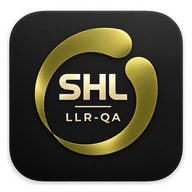
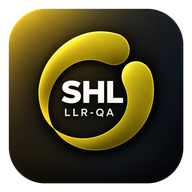
Add files via upload

diff --git a/index.html b/index.html
@@ -4,7 +4,7 @@
 <meta charset="UTF-8">
 <meta name="viewport" content="width=device-width, initial-scale=1.0, viewport-fit=cover">
 <title>SHL QA — Lesson Learned Repository</title>
-<!-- Cross-platform patch v1.0.36: automatic 3D floating treatment for any uploaded branding logo without recoloring -->
+<!-- Cross-platform patch v1.0.35: approved glossy SHL LLR-QA app icon refresh across all platforms -->
 <!-- v1.0.11: mobile/web login viewport + keyboard responsiveness fix -->
 <!-- v1.0.7: card view shows both uploaded photos side-by-side -->
 
@@ -82,70 +82,17 @@ header{
   cursor:pointer;overflow:hidden;flex-shrink:0;position:relative;
   border:none;
 }
-.logo-mark img{width:100%;height:100%;object-fit:contain;background:transparent;}
+.logo-mark img{width:100%;height:100%;object-fit:cover;background:transparent;}
 .logo-mark.has-logo,
 .welcome-logo-large.has-logo,
 .login-brand-logo.has-logo,
 .welcome-logo-preview.has-logo{
   background:transparent!important;
-  border-color:transparent!important;
-  overflow:visible!important;
-  isolation:isolate;
   box-shadow:none!important;
-}
-
-/* v1.0.36 — uploaded logo stays exactly its own color/background.
-   3D comes only from geometry + neutral shadows, never from a theme fill/tint. */
-.logo-mark.has-logo img,
-.welcome-logo-large.has-logo img,
-.login-brand-logo.has-logo img,
-.welcome-logo-preview.has-logo img{
-  display:block;
-  width:100%;
-  height:100%;
-  object-fit:contain;
-  background:transparent!important;
-  border-radius:18%;
-  transform:perspective(760px) translateY(-2px) rotateX(2.2deg) rotateY(-1.5deg) scale(.96);
-  transform-origin:center center;
-  box-shadow:
-    0 1px 0 rgba(255,255,255,.55) inset,
-    0 2px 3px rgba(10,15,20,.16),
-    0 8px 16px rgba(10,15,20,.18),
-    0 18px 34px rgba(10,15,20,.16);
-  filter:drop-shadow(0 4px 5px rgba(10,15,20,.10));
-  transition:transform .20s ease,box-shadow .20s ease,filter .20s ease;
-}
-.logo-mark.has-logo:hover img{
-  transform:perspective(760px) translateY(-3px) rotateX(1.3deg) rotateY(-1deg) scale(.98);
-  box-shadow:
-    0 1px 0 rgba(255,255,255,.58) inset,
-    0 3px 5px rgba(10,15,20,.16),
-    0 10px 19px rgba(10,15,20,.20),
-    0 21px 38px rgba(10,15,20,.18);
+  border-color:transparent!important;
 }
 .logo-mark.has-logo{border-radius:0;}
-.welcome-logo-large.has-logo,
-.login-brand-logo.has-logo,
-.welcome-logo-preview.has-logo{border-radius:0!important;}
-
-/* Larger public logos get slightly deeper floating depth. */
-.welcome-logo-large.has-logo img{
-  transform:perspective(900px) translateY(-4px) rotateX(2.4deg) rotateY(-1.6deg) scale(.95);
-  box-shadow:
-    0 1px 0 rgba(255,255,255,.60) inset,
-    0 4px 7px rgba(10,15,20,.14),
-    0 14px 28px rgba(10,15,20,.20),
-    0 26px 52px rgba(10,15,20,.16);
-}
-.login-brand-logo.has-logo img{
-  transform:perspective(820px) translateY(-3px) rotateX(2.2deg) rotateY(-1.4deg) scale(.96);
-  box-shadow:
-    0 1px 0 rgba(255,255,255,.58) inset,
-    0 3px 5px rgba(10,15,20,.14),
-    0 11px 22px rgba(10,15,20,.19),
-    0 20px 38px rgba(10,15,20,.14);
-}
+.welcome-logo-large.has-logo,.login-brand-logo.has-logo,.welcome-logo-preview.has-logo{border-radius:0!important;}
 .logo-mark .hint{
   position:absolute;inset:0;background:rgba(0,0,0,0.55);color:#fff;font-size:9px;
   display:flex;align-items:center;justify-content:center;opacity:0;transition:opacity .15s;text-align:center;
@@ -951,7 +898,7 @@ header{
   background:linear-gradient(135deg,var(--gold-light),var(--gold-dim));
   color:#fff;font-size:28px;font-weight:850;box-shadow:0 16px 40px color-mix(in srgb,var(--gold) 18%,transparent);
 }
-.welcome-logo-large img{width:100%;height:100%;display:block;object-fit:contain;background:transparent;}
+.welcome-logo-large img{width:100%;height:100%;display:block;object-fit:cover;background:transparent;}
 .welcome-tagline{
   font-size:12px;font-weight:800;letter-spacing:2.8px;text-transform:uppercase;color:var(--gold-dim);
   min-height:18px;
@@ -978,7 +925,7 @@ header{
   background:linear-gradient(135deg,var(--gold-light),var(--gold-dim));color:#fff;font-weight:850;font-size:20px;
   box-shadow:0 12px 30px color-mix(in srgb,var(--gold) 16%,transparent);
 }
-.login-brand-logo img{width:100%;height:100%;display:block;object-fit:contain;background:transparent;}
+.login-brand-logo img{width:100%;height:100%;display:block;object-fit:cover;background:transparent;}
 .login-company{
   margin-top:22px;font-size:25px;line-height:1.2;font-weight:850;color:var(--navy);text-align:center;text-wrap:balance;
 }
@@ -1289,7 +1236,7 @@ body.button-rounded .btn{border-radius:9px;}
 .about-meta{font-size:11.5px;color:var(--text-mute);line-height:1.6;padding-top:4px;}
 .welcome-logo-editor{display:flex;align-items:center;gap:14px;padding:12px;border:1px dashed var(--border-strong);border-radius:10px;background:var(--bg);margin-bottom:12px;}
 .welcome-logo-preview{width:74px;height:74px;flex:0 0 74px;border-radius:14px;background:linear-gradient(135deg,var(--gold-light),var(--gold-dim));display:flex;align-items:center;justify-content:center;color:#fff;font-weight:800;overflow:hidden;border:1px solid var(--border);}
-.welcome-logo-preview img{width:100%;height:100%;display:block;object-fit:contain;background:transparent;padding:0;}
+.welcome-logo-preview img{width:100%;height:100%;display:block;object-fit:cover;background:transparent;padding:0;}
 .welcome-logo-controls{display:flex;gap:8px;flex-wrap:wrap;}
 
 /* ===== v1.0.29 Logo Crop / Position Editor ===== */
@@ -2093,7 +2040,7 @@ body.button-rounded .btn{border-radius:9px;}
           <button class="btn btn-ghost" id="logoCropCancelBtn" type="button">Cancel</button>
           <button class="btn btn-gold" id="logoCropApplyBtn" type="button">Use Logo</button>
         </div>
-        <div class="logo-crop-note">The visible square is the exact saved logo area. The app will keep the logo’s own colors/background and add only a neutral 3D floating shadow after saving.</div>
+        <div class="logo-crop-note">The visible square is the exact logo area. White/empty side margins can be removed by zooming and dragging.</div>
         <div class="logo-crop-status" id="logoCropStatus"></div>
       </div>
     </div>

diff --git a/sw.js b/sw.js
@@ -1,4 +1,4 @@
-const CACHE = 'shl-qa-llr-shell-v1.0.36-logo-3d';
+const CACHE = 'shl-qa-llr-shell-v1.0.35-approved-icon';
 const SHELL = [
   './',
   './index.html',
